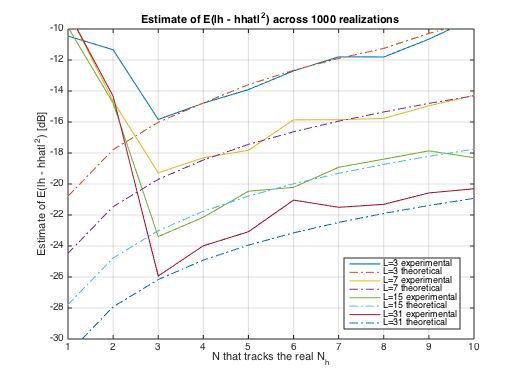
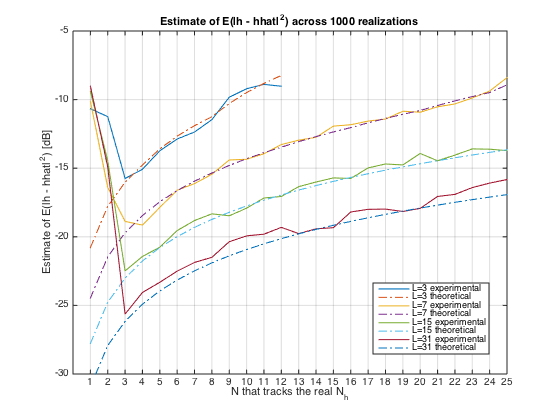
Fixed stuff, extended plot to higher values of N

diff --git a/HW2/impulseResponse.m b/HW2/impulseResponse.m
@@ -13,7 +13,7 @@ channel_generator;
 %% Loop to determine suitable values of N, L
 
 printmsg_delete = ''; % Just to display progress updates
-maxN = 12;
+maxN = 25;
 % Note that with maxN<13 we don't have problems with the condition N<=L.
 
 % Time counter that allows the output d to be computed with a different
@@ -62,7 +62,7 @@ for L = [3, 7, 15, 31]
             d_no_trans = d(end-length(d_hat)+1 : end);
             error_func_temp(k) = sum(abs(d_hat - d_no_trans).^2);
         end
-        error_func(N) = mean(error_func_temp);
+        error_func(N) = mean(error_func_temp); %#ok<SAGROW>
     end
     
     % NOTE: the receiver doesn't know the reference value to which the
@@ -77,7 +77,6 @@ end
 %% Estimate E(|h-hhat|^2) by repeating the estimate 1000 times and assuming
 % h known
 
-maxN = 10;
 printmsg_delete = '';
 
 errorpower_est = zeros(4, maxN);
@@ -93,6 +92,11 @@ for L = Lvalues
         printmsg = sprintf('L = %d, N = %d\n', L, N);
         fprintf([printmsg_delete, printmsg]);
         printmsg_delete = repmat(sprintf('\b'), 1, length(printmsg));
+        
+        % Save some time by breaking the for loop now.
+        if(ceil(N/4) > L)
+            break
+        end
         
         % Supposed length of the impulse response of the channel in each polyphase branch.
         n_short = mod(4-N, 4); % Num branches with a shorter filter than others
@@ -152,6 +156,11 @@ exp_deltahsqr = zeros(length(Lvalues), maxN);
 for lindex = 1:length(Lvalues)
     L = Lvalues(lindex);
     for N = 1:maxN
+        
+        if(ceil(N/4) > L)
+            break
+        end
+        
         n_short = mod(4-N, 4); % Num branches with a shorter filter than others
         % N_i is the number of coefficients of the filter of the i-th branch.
         N_i(1:4-n_short) = ceil(N/4);
@@ -171,7 +180,7 @@ end
 xlabel('N that tracks the real N_h'), ylabel('Estimate of E(|h - hhat|^2) [dB]')
 title('Estimate of E(|h - hhat|^2) across 1000 realizations')
 ax = gca; ax.XTick = 1:maxN;
-ylim([-30 -10])
+ylim([-30 -5])
 grid on, box on
 
 return;
